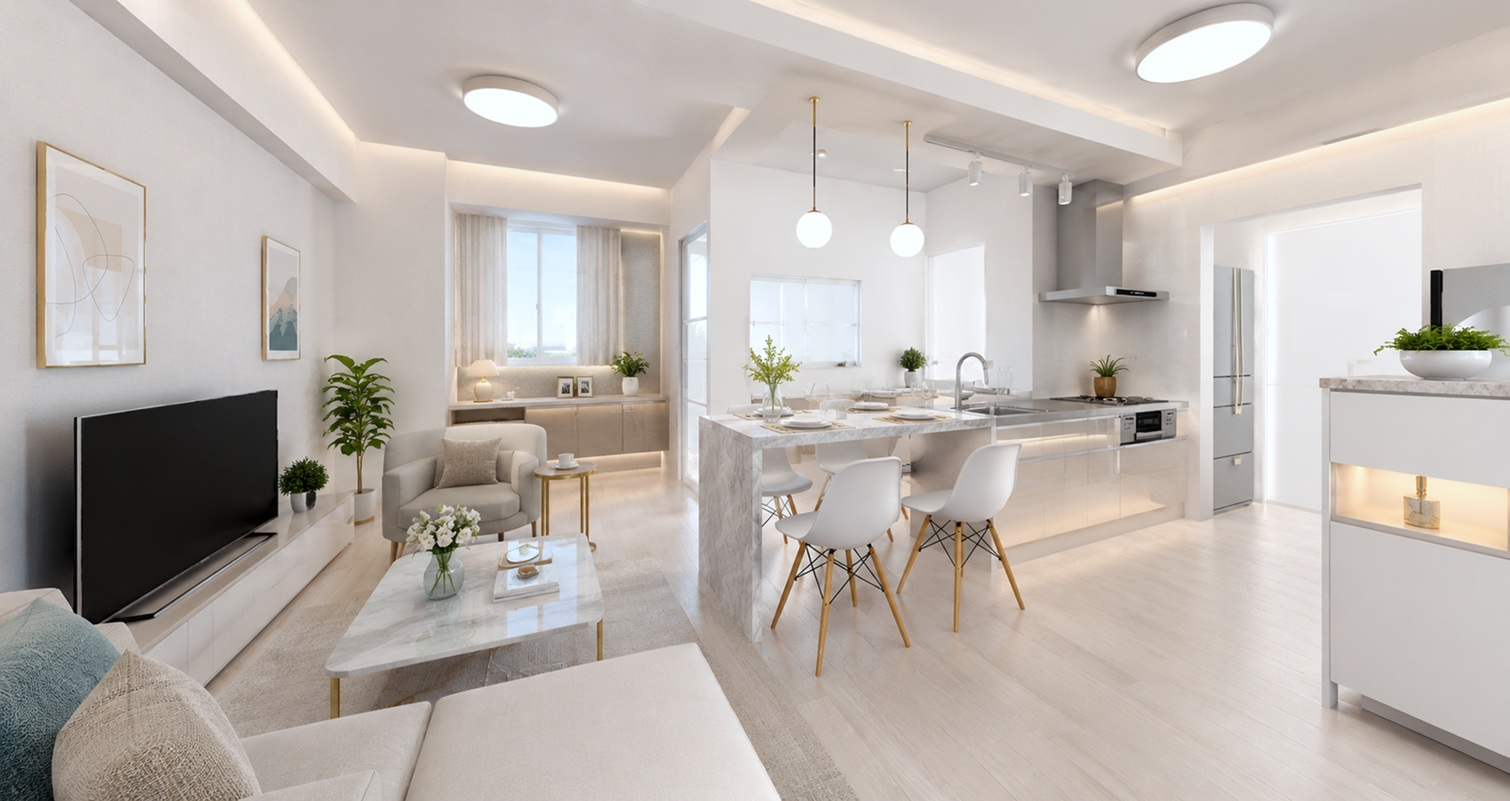
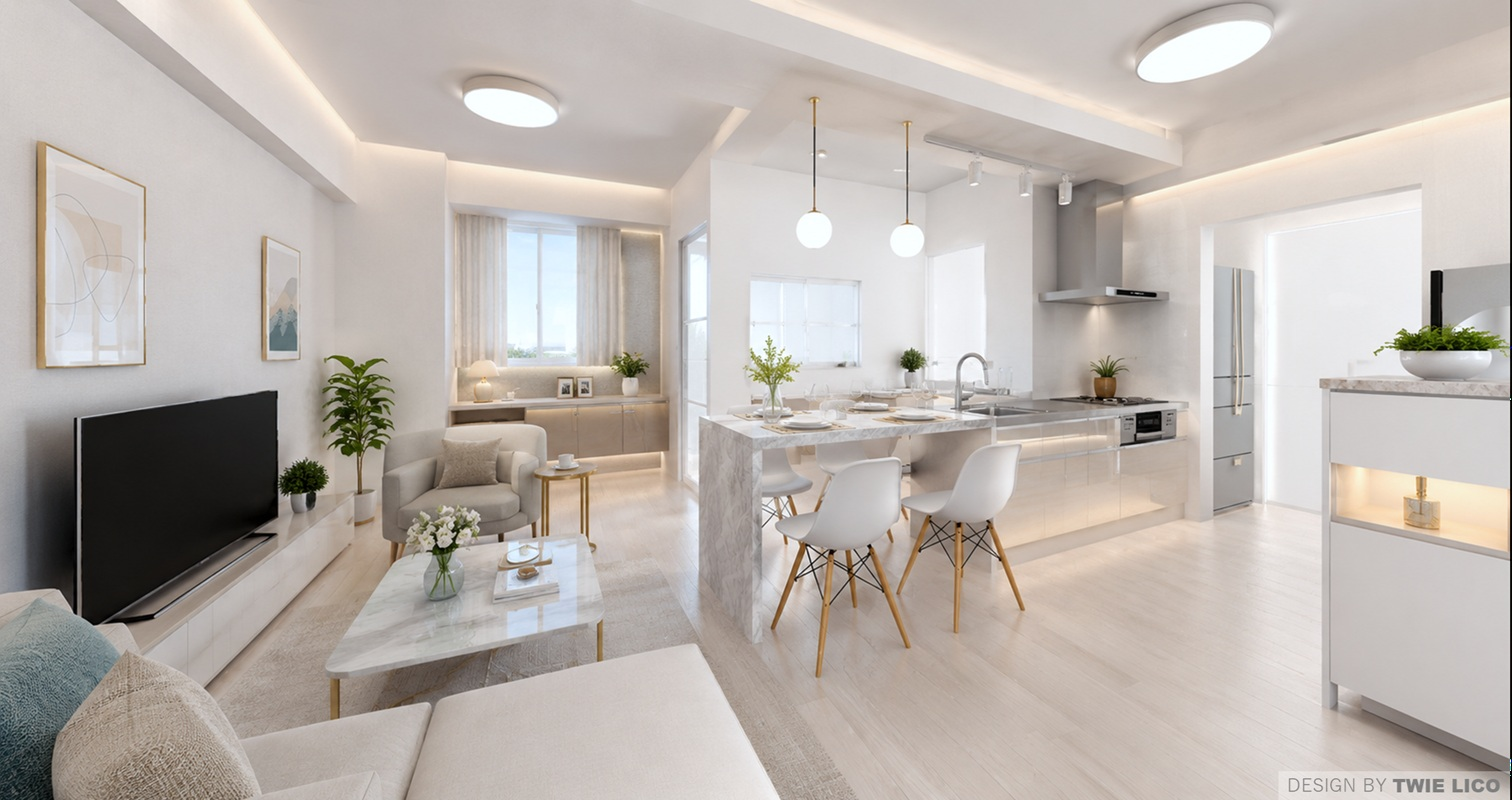
Update overwritten images and bust cache

diff --git a/index.html b/index.html
@@ -12,7 +12,7 @@
     <link
         href="https://fonts.googleapis.com/css2?family=Inter:wght@400;500;700;900&family=Noto+Sans+JP:wght@400;500;700&display=swap"
         rel="stylesheet">
-    <link rel="stylesheet" href="styles.css?v=73.0">
+    <link rel="stylesheet" href="styles.css?v=74.0">
 </head>
 
 <body>